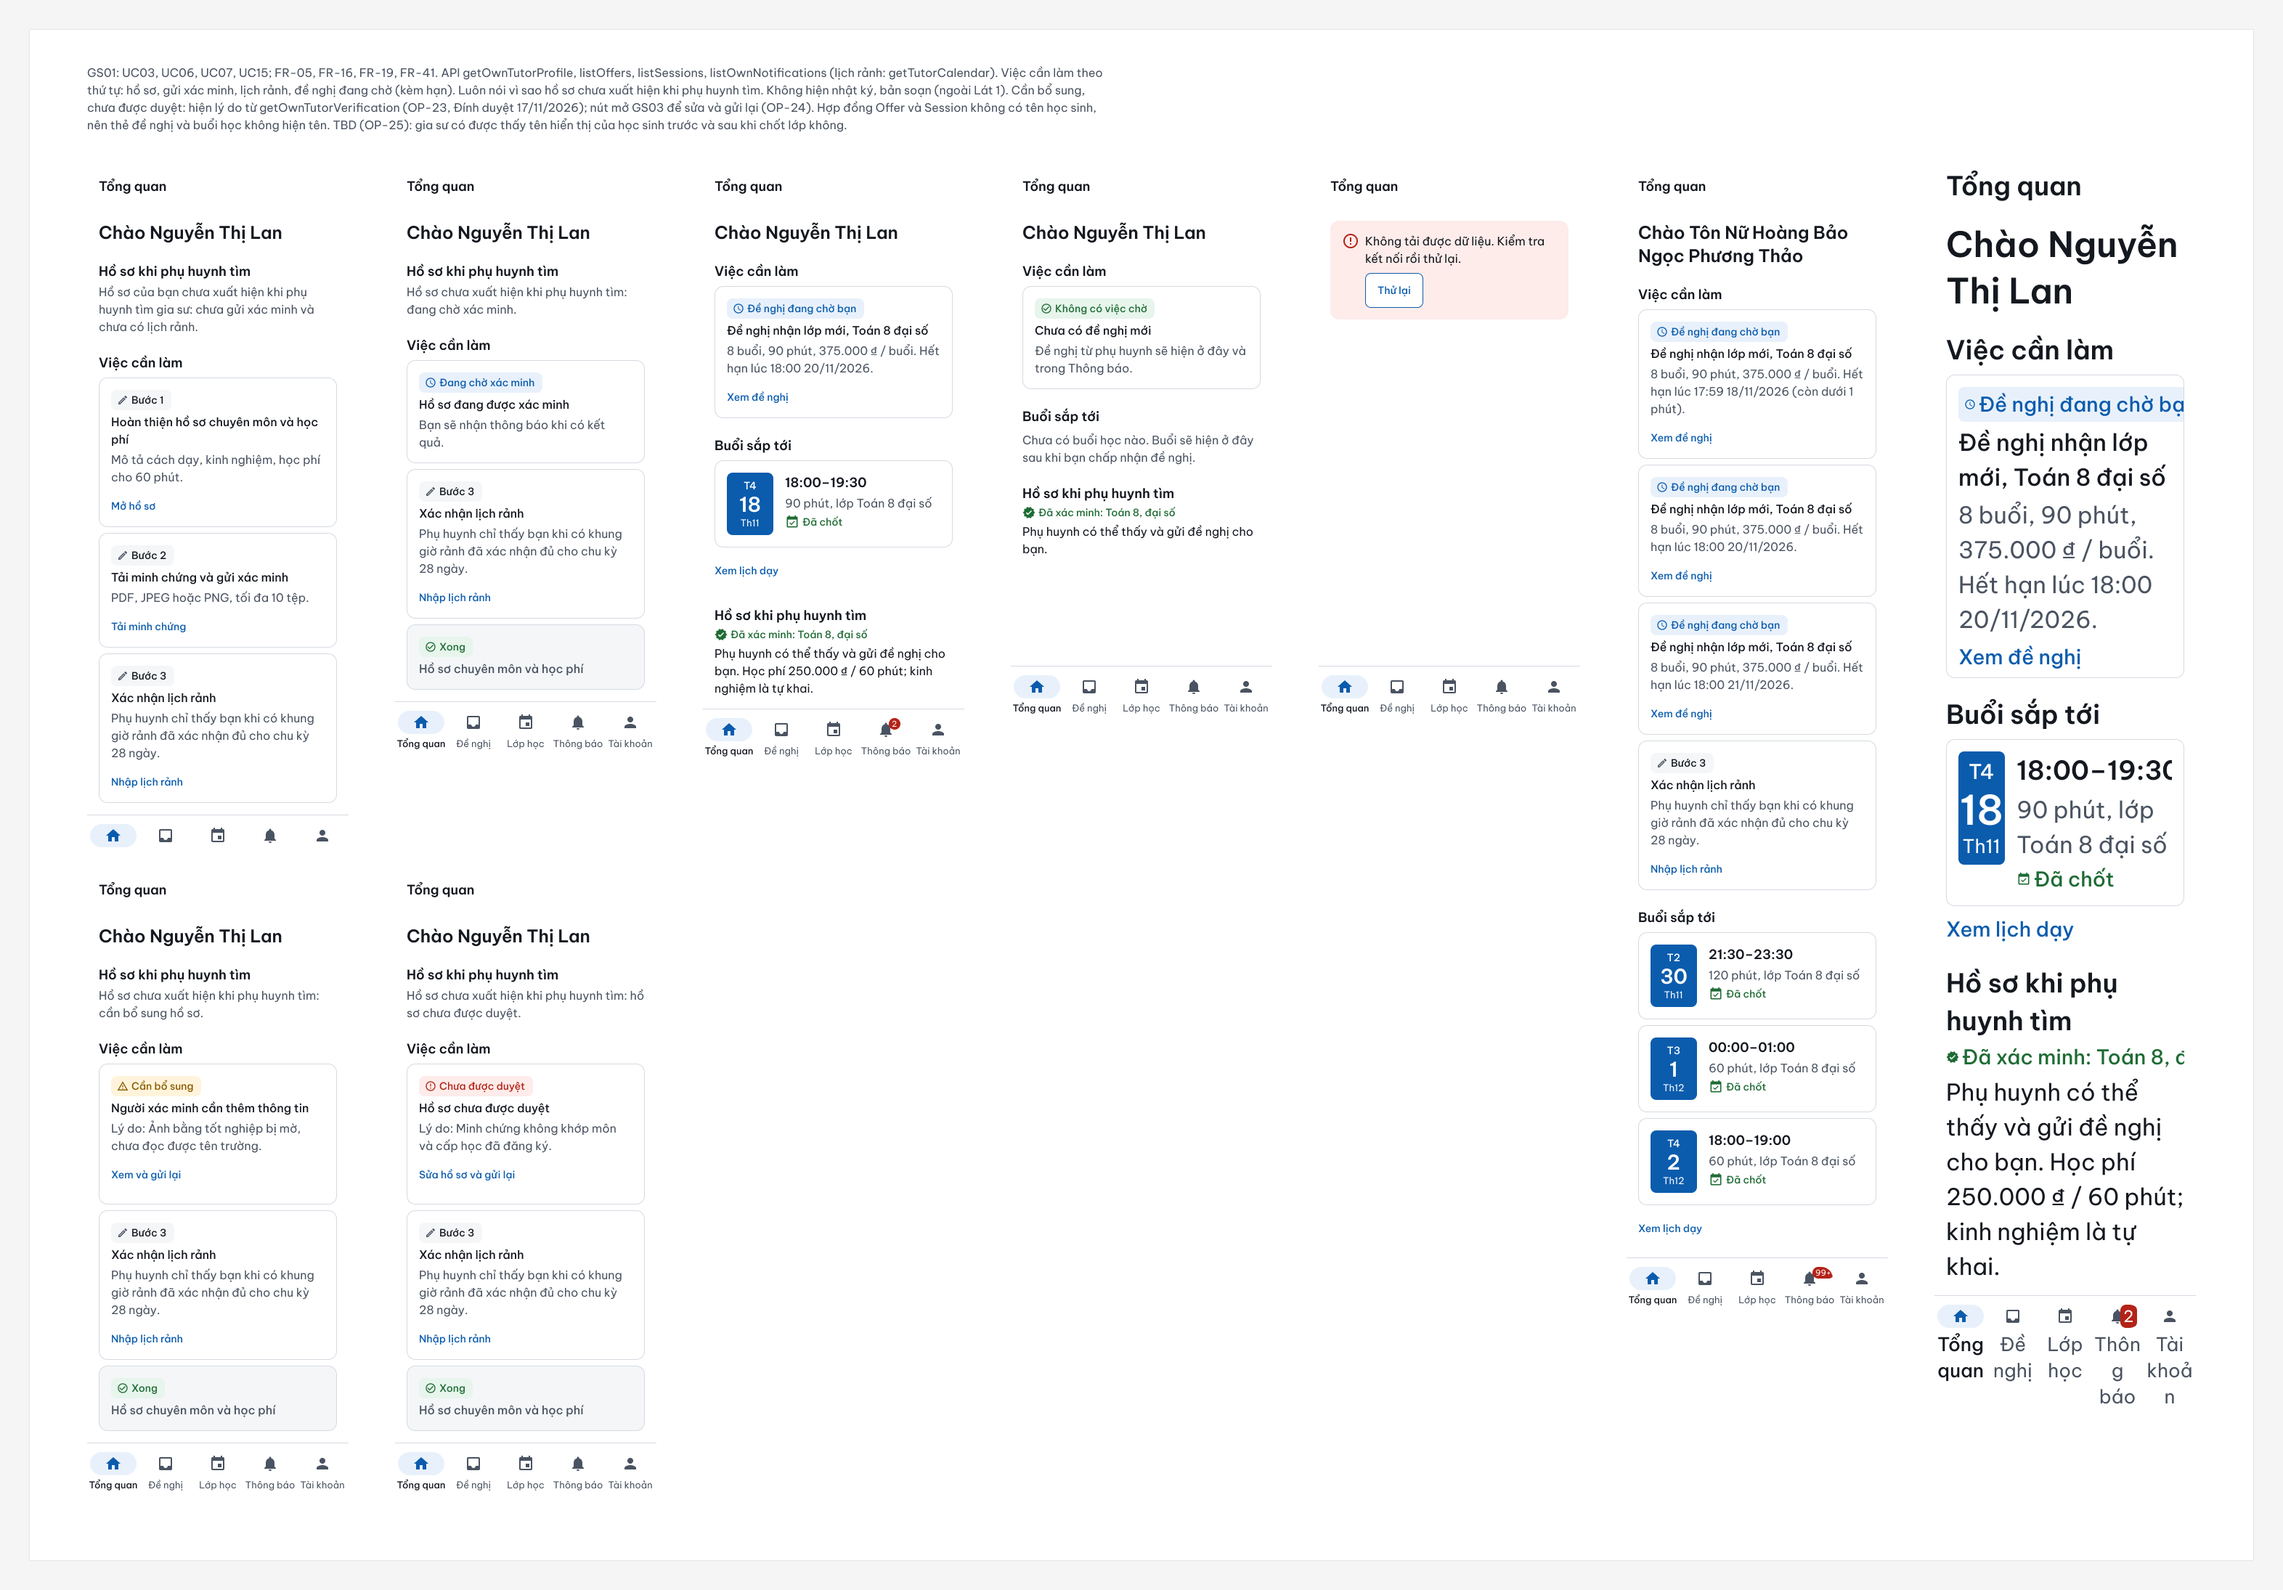
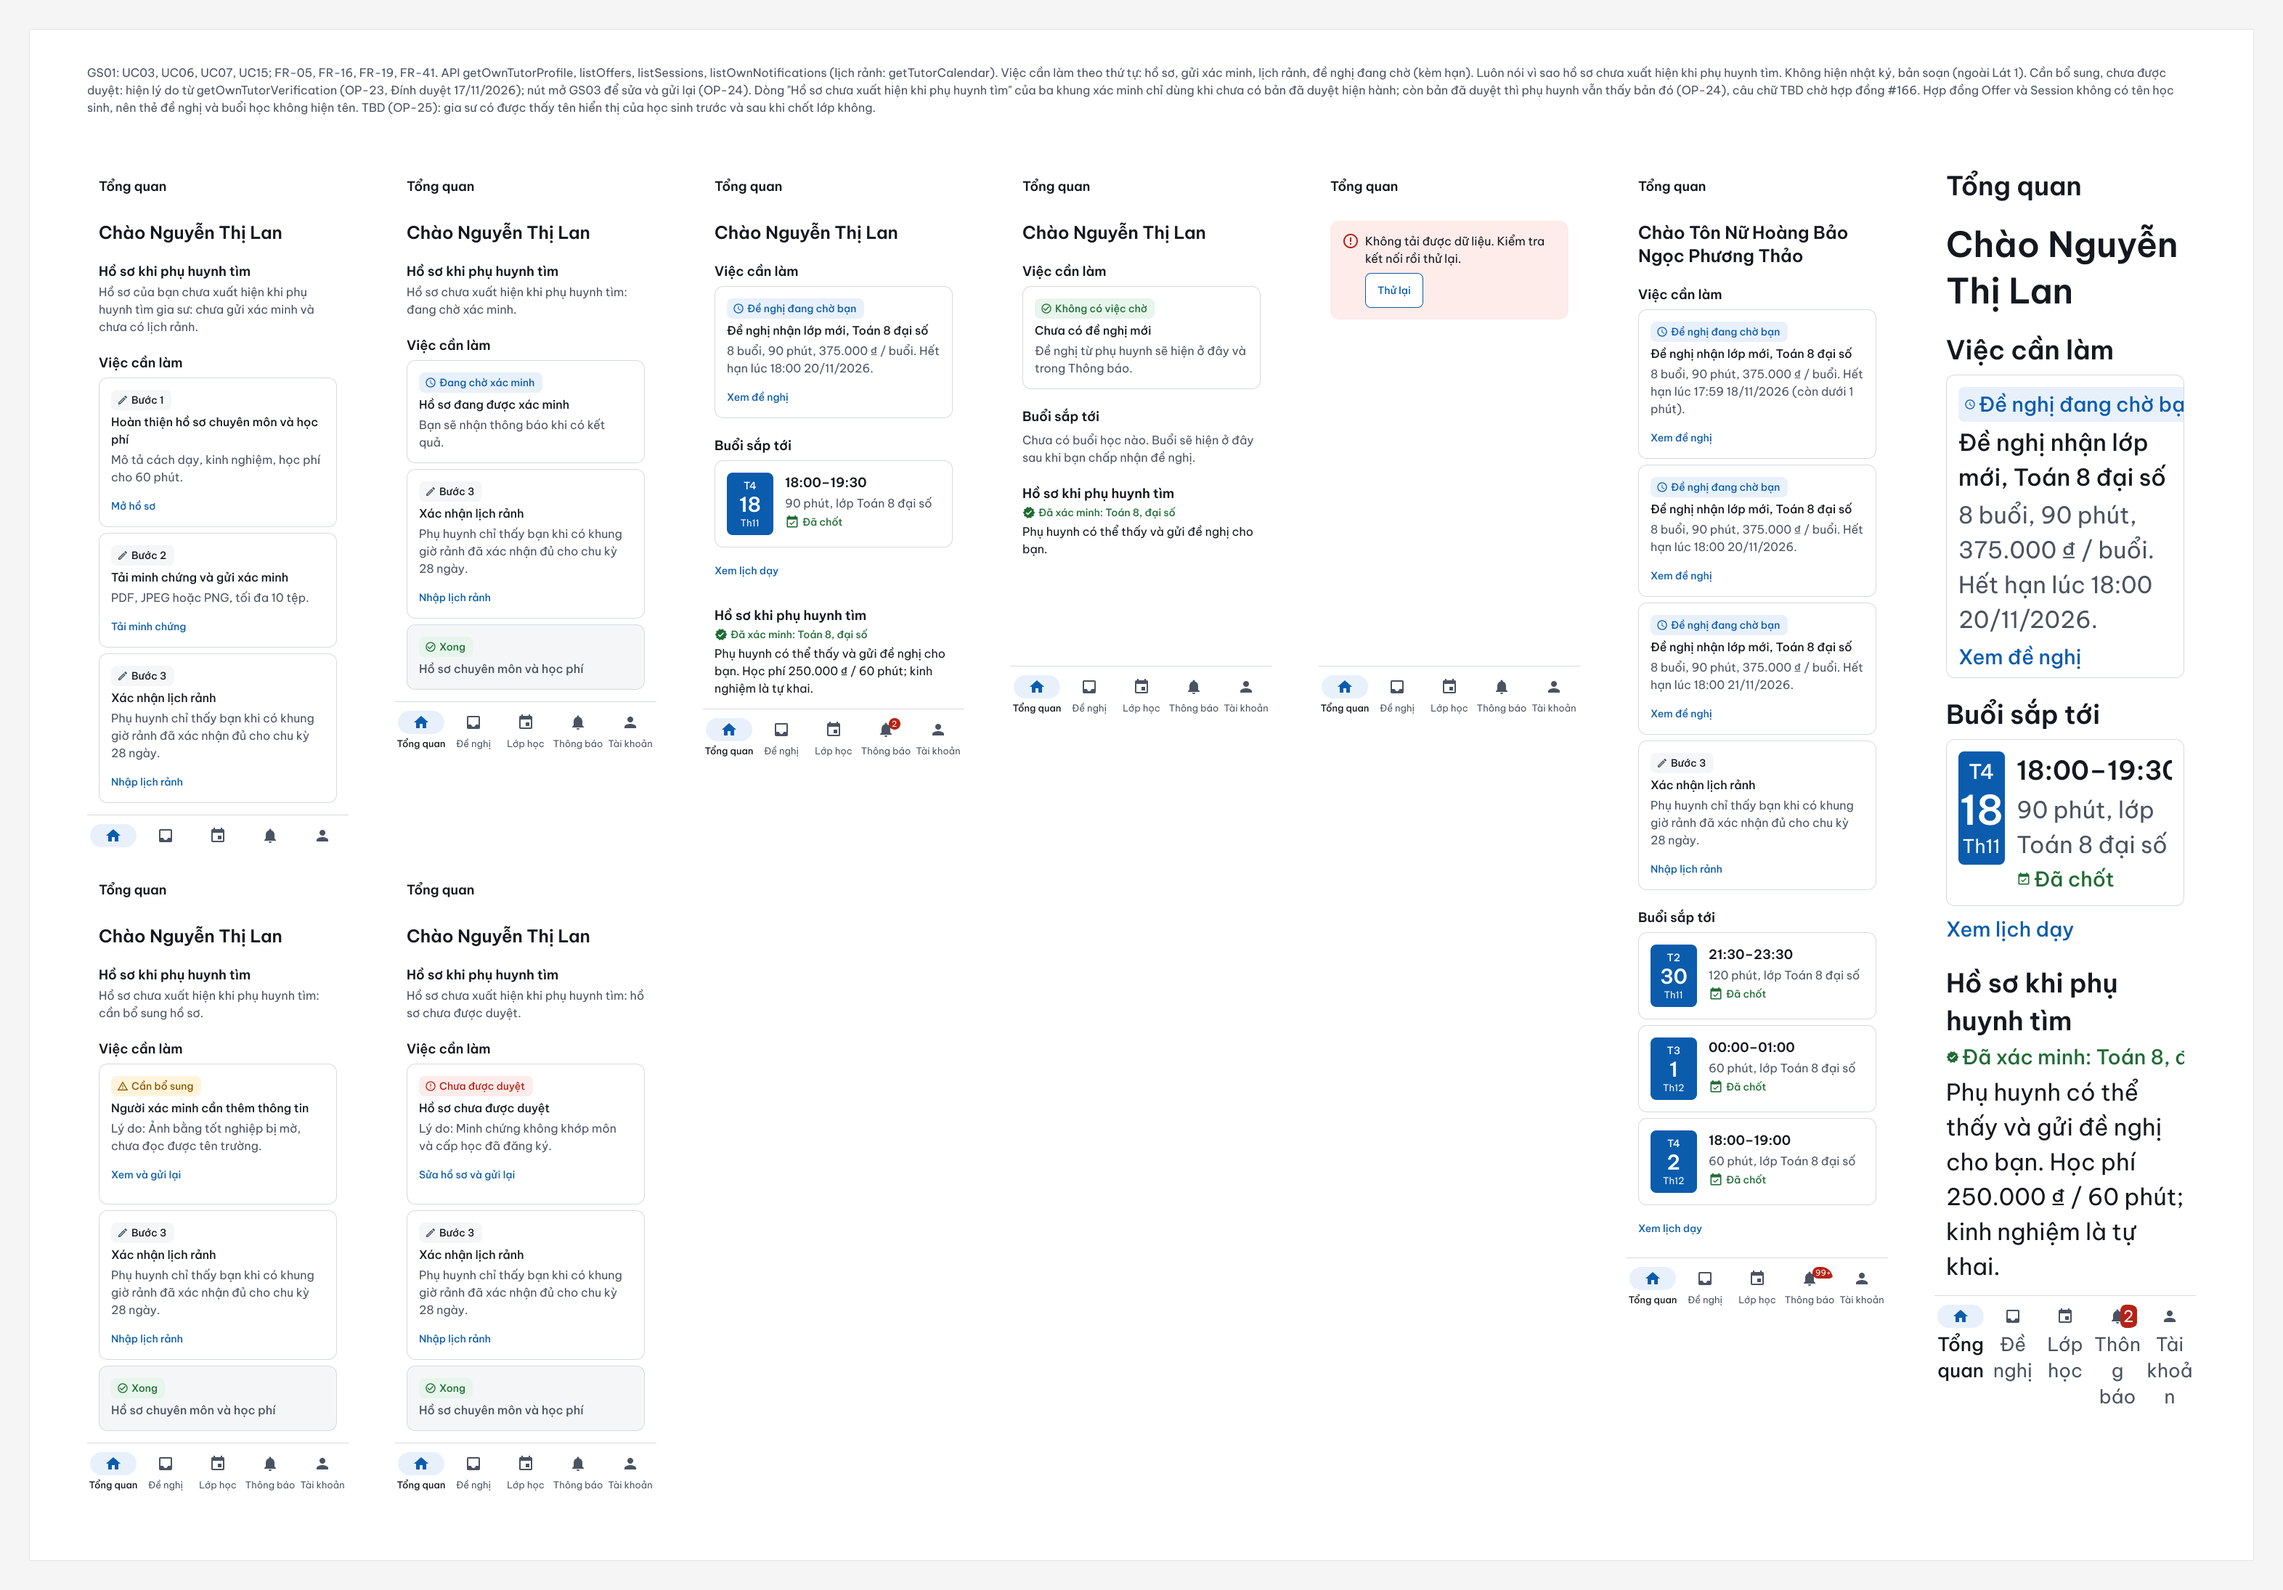
docs(design): scope gs01's visibility line to tutors without an approved version [TB-14]
Codex's review of #165: under OP-24 parents keep seeing the approved version
while a resubmission waits, needs info or is rejected, so "Hồ sơ chưa xuất
hiện khi phụ huynh tìm" is only true without one. The three verification
frames now say so; the other case is TBD on #166, since no tutor operation
says whether an approved version exists. Until then the app hides that line.

Changed region(s): [[0.0312, 0.0311, 0.374, 0.0932], [0.4676, 0.0311, 0.9351, 0.0621], [0.4052, 0.0311, 0.4364, 0.0621]]

diff --git a/docs/design/ui/screens/GS01.md b/docs/design/ui/screens/GS01.md
@@ -39,7 +39,7 @@ Nguyên văn trong Figma; câu chung lấy từ [04](../04-trang-thai-cau-chu.md
 |---|---|
 | Khối | Việc cần làm / Buổi sắp tới / Hồ sơ khi phụ huynh tìm |
 | Bước | Bước 1: Hoàn thiện hồ sơ chuyên môn và học phí / Bước 2: Tải minh chứng và gửi xác minh / Bước 3: Xác nhận lịch rảnh |
-| Hiển thị | Hồ sơ của bạn chưa xuất hiện khi phụ huynh tìm gia sư: chưa gửi xác minh và chưa có lịch rảnh. / Phụ huynh có thể thấy và gửi đề nghị cho bạn. / Hồ sơ chưa xuất hiện khi phụ huynh tìm: cần bổ sung hồ sơ. / Hồ sơ chưa xuất hiện khi phụ huynh tìm: hồ sơ chưa được duyệt. |
+| Hiển thị | Hồ sơ của bạn chưa xuất hiện khi phụ huynh tìm gia sư: chưa gửi xác minh và chưa có lịch rảnh. / Phụ huynh có thể thấy và gửi đề nghị cho bạn. / Khi chưa có bản đã duyệt hiện hành: Hồ sơ chưa xuất hiện khi phụ huynh tìm: đang chờ xác minh. / ...: cần bổ sung hồ sơ. / ...: hồ sơ chưa được duyệt. Khi còn bản đã duyệt: TBD (#166) |
 | Cần bổ sung | Nhãn: Cần bổ sung (Warning). Người xác minh cần thêm thông tin. Lý do: {reason}. Nút: Xem và gửi lại |
 | Chưa được duyệt | Nhãn: Chưa được duyệt (Danger). Hồ sơ chưa được duyệt. Lý do: {reason}. Nút: Sửa hồ sơ và gửi lại |
 | Đề nghị | Đề nghị nhận lớp mới, Toán 8 đại số. 8 buổi, 90 phút, 375.000 ₫ / buổi. Hết hạn lúc 18:00 20/11/2026. Nút: Xem đề nghị |
@@ -49,6 +49,7 @@ Nguyên văn trong Figma; câu chung lấy từ [04](../04-trang-thai-cau-chu.md
 - Không hiện nhật ký, bản soạn (ngoài Lát 1).
 - Khối xác minh lấy từ `getOwnTutorVerification` (OP-23): `WAITING` là "Đang chờ xác minh"; `NEEDS_INFO` là "Cần bổ sung", `REJECTED` là "Chưa được duyệt", cả hai hiện `reason` nguyên văn sau "Lý do: ". Không hiện người xác minh.
 - "Xem và gửi lại" và "Sửa hồ sơ và gửi lại" mở GS03; sửa và gửi lại thành phiên bản mới (OP-24).
+- Thẻ việc của khối xác minh (nhãn, lý do, nút) đúng trong mọi trường hợp. Riêng dòng "Hồ sơ chưa xuất hiện khi phụ huynh tìm: ..." của ba khung "Đang chờ xác minh", "Cần bổ sung", "Chưa được duyệt" **chỉ dùng khi gia sư chưa có bản đã duyệt hiện hành**. Còn bản đã duyệt thì theo OP-24 phụ huynh vẫn thấy bản đó tới khi bản mới được duyệt, nên không được ghi "chưa xuất hiện". Không suy việc xuất hiện từ `state` của `getOwnTutorVerification`.
 
 ## Ánh xạ sang code
 
@@ -66,3 +67,4 @@ Nguyên văn trong Figma; câu chung lấy từ [04](../04-trang-thai-cau-chu.md
 - OP-25 đã chốt 12/11/2026: gia sư chỉ thấy tên hiển thị của học sinh sau khi chốt lớp; đề nghị đang chờ không hiện tên. Chờ trường mới trong hợp đồng lớp (#97).
 - TBD: OP-27: buổi sắp tới cần classId.
 - OP-23 đã chốt 12/11/2026 (#96); hai khung "Cần bổ sung", "Chưa được duyệt" Đính duyệt 17/11/2026.
+- TBD (#166, phát hiện khi Codex rà #165): gia sư gửi bản sửa trong khi còn bản đã duyệt hiện hành. Hợp đồng chưa cho gia sư biết mình còn bản đã duyệt hay không (`getOwnTutorProfile` chỉ trả bản mới nhất, `getTutorPublic` chỉ dành cho PARENT). Cần contract-change ở #166, rồi Đính duyệt câu chữ dòng hiển thị cho biến thể này. Tới lúc đó app không phân biệt được hai trường hợp, nên theo #14 Q1 (thiếu API thì ẩn khối): TB-14b dựng thẻ việc của khối xác minh, còn dòng "Hồ sơ khi phụ huynh tìm" ở ba trạng thái xác minh thì ẩn tới khi #166 merge.
